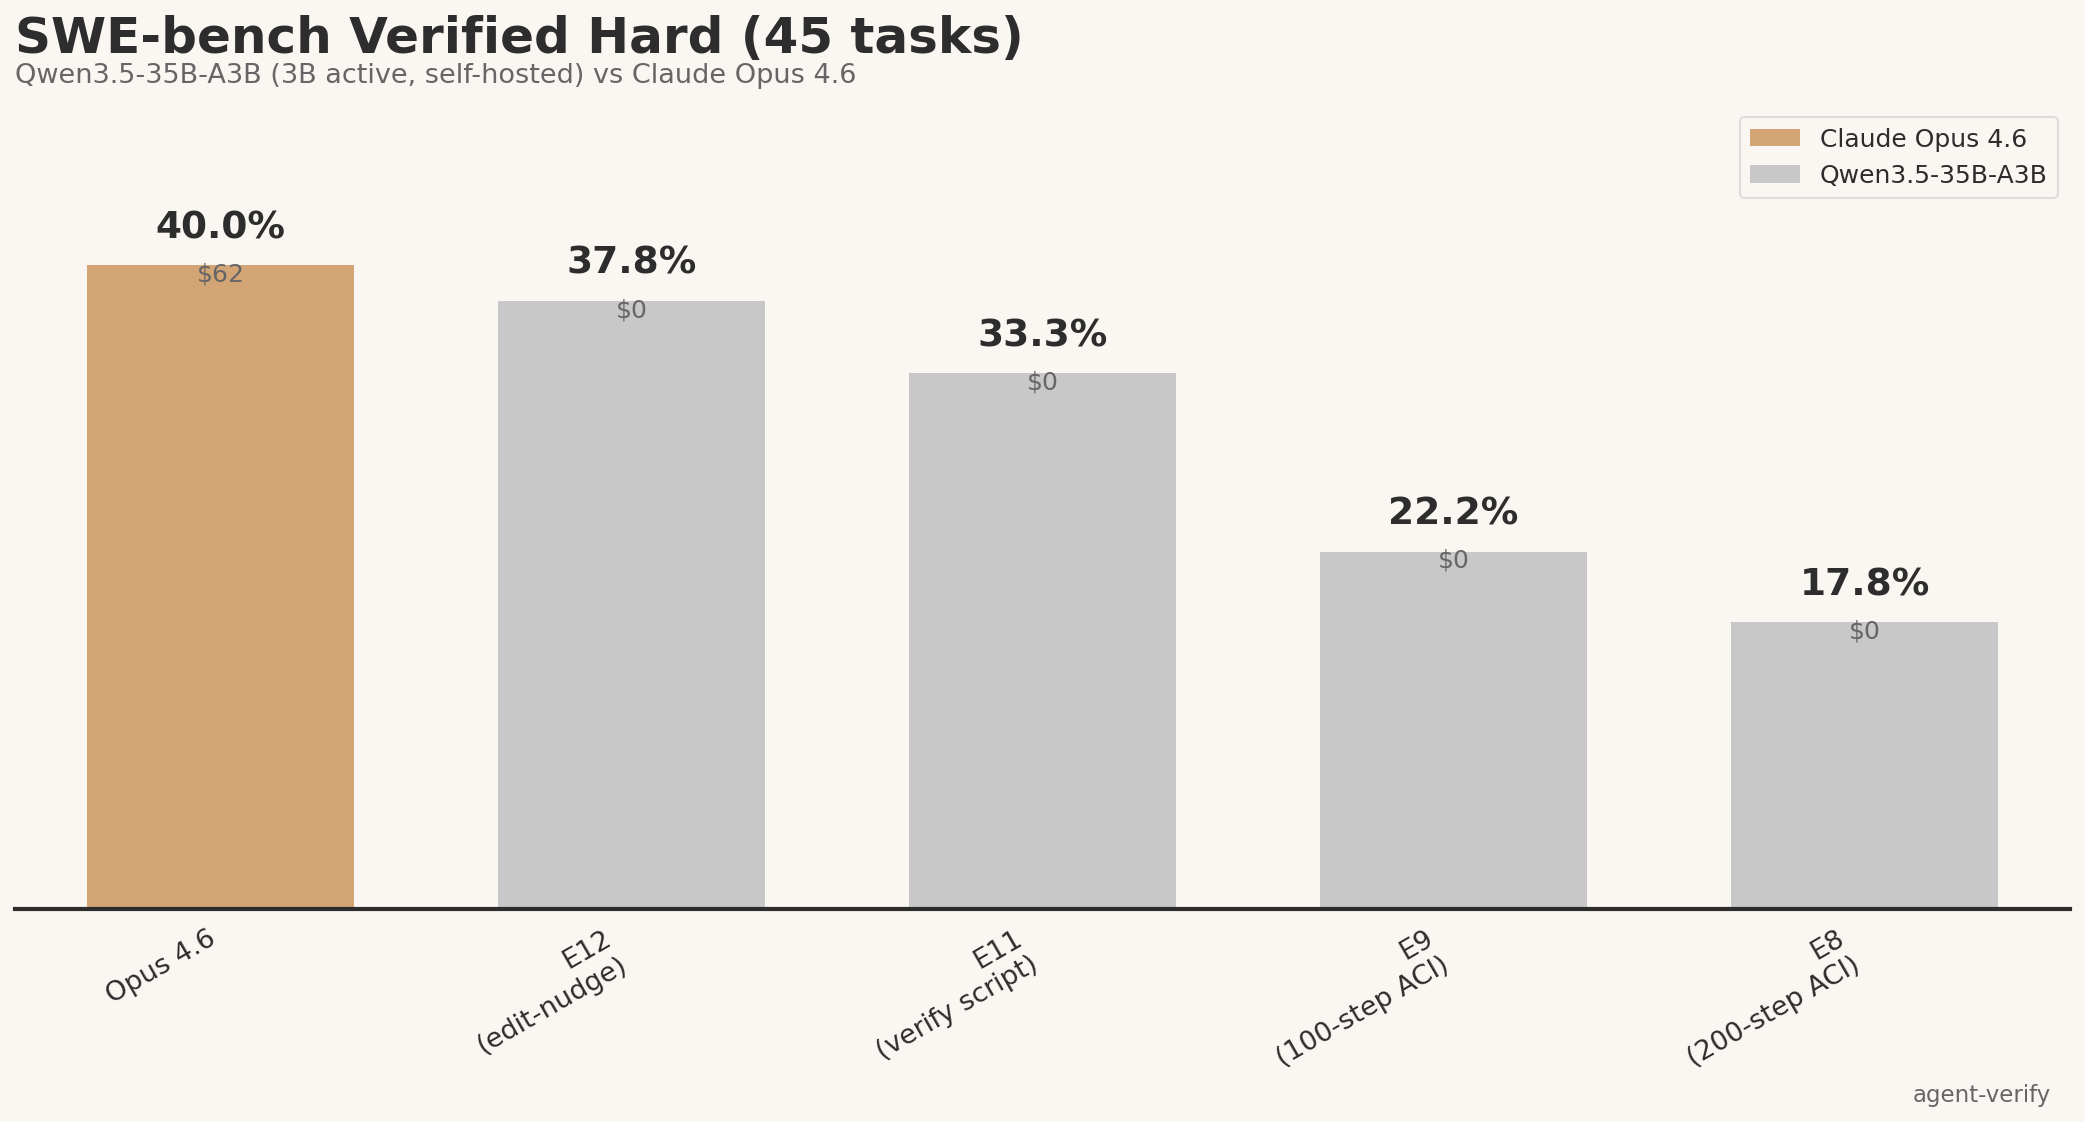
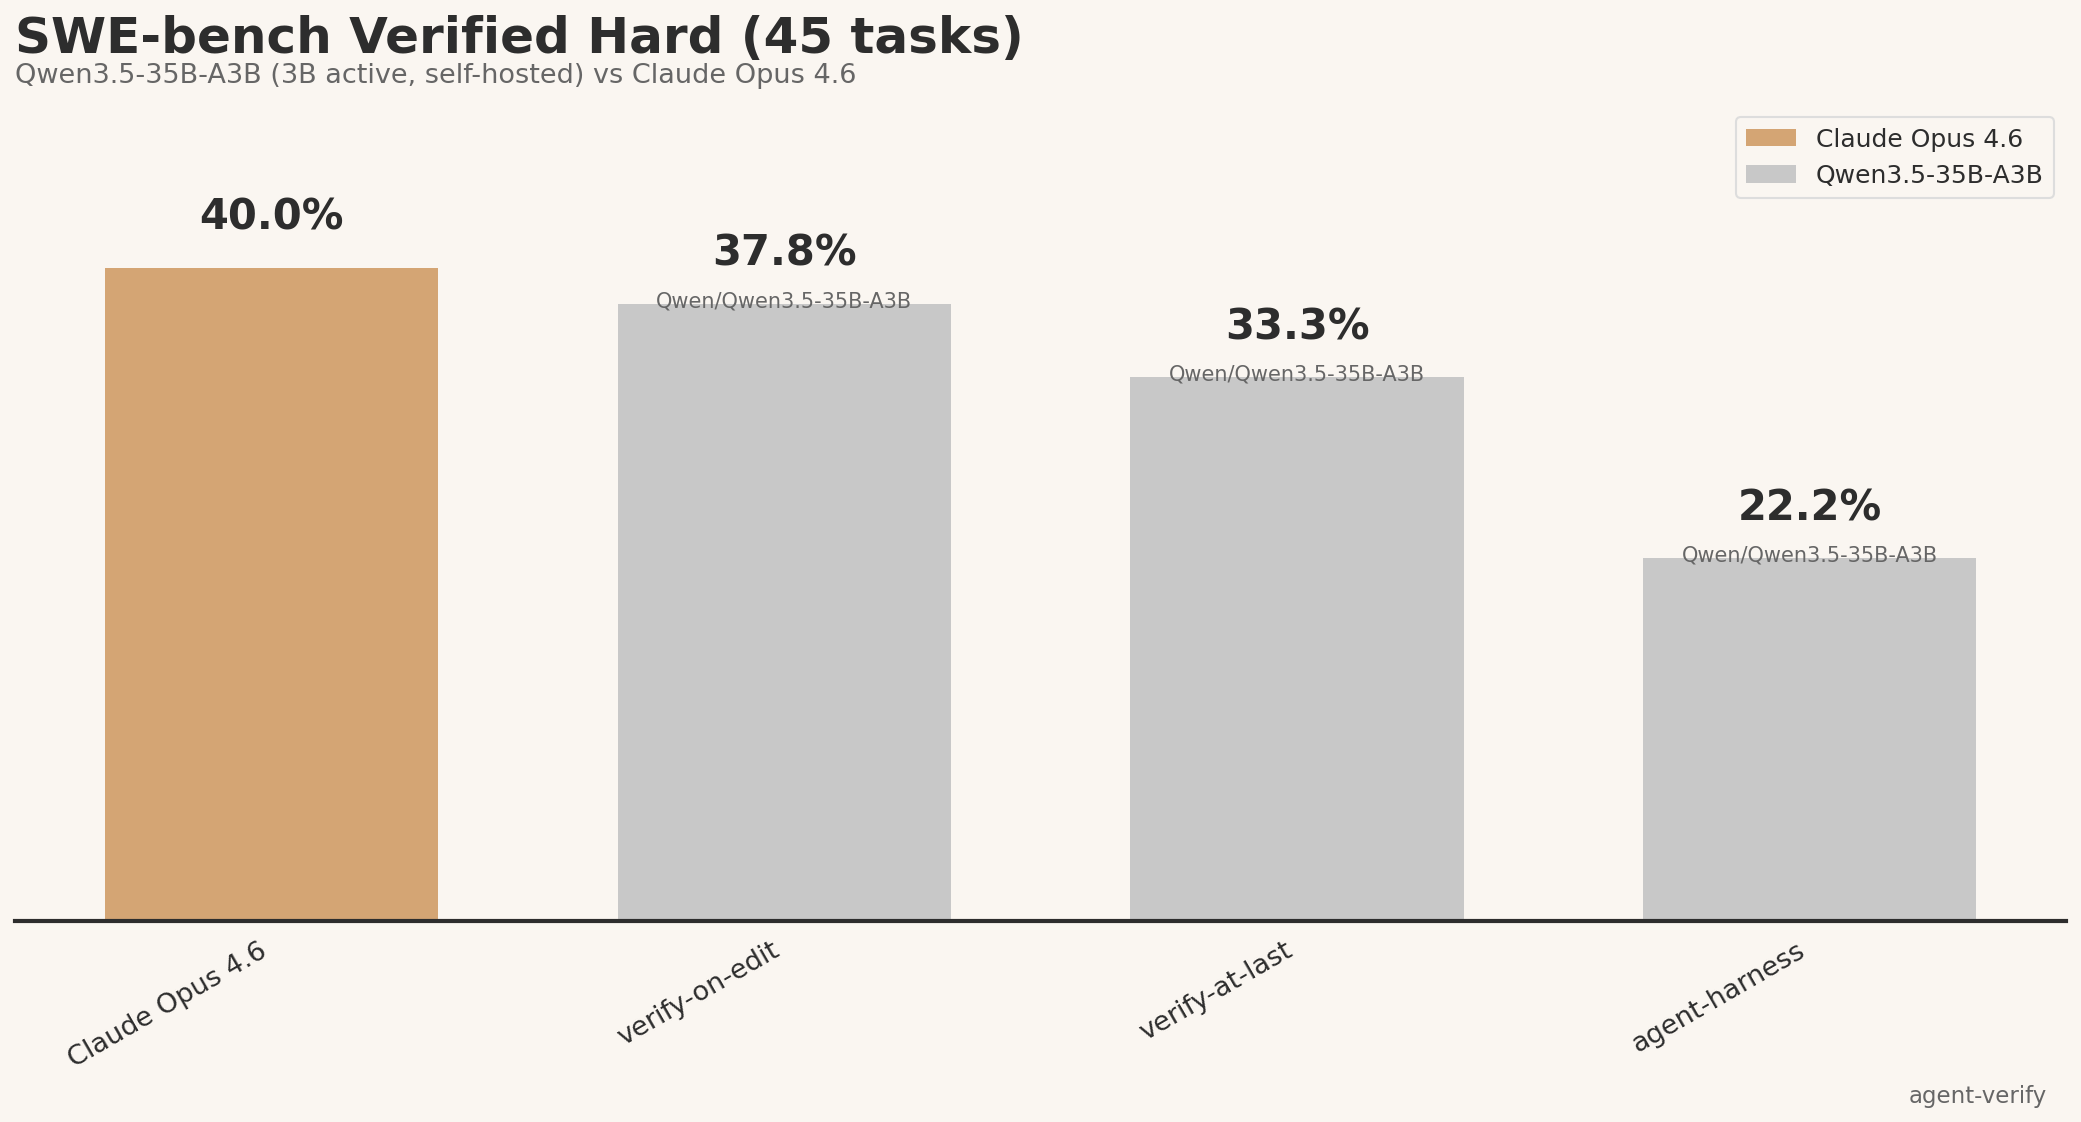
Update leaderboard chart: rename strategies, add model labels
verify-on-edit, verify-at-last, agent-harness naming.
Qwen/Qwen3.5-35B-A3B subtitle on Qwen bars. Remove cost labels.

diff --git a/figures/plot_hard_leaderboard.py b/figures/plot_hard_leaderboard.py
@@ -7,11 +7,10 @@ import numpy as np
 # Data (sorted by resolve rate descending)
 # ---------------------------------------------------------------------------
 entries = [
-    {"name": "Opus 4.6",                "pct": 40.0, "cost": "$62",    "type": "opus"},
-    {"name": "E12\n(edit-nudge)",        "pct": 37.8, "cost": "$0",     "type": "qwen"},
-    {"name": "E11\n(verify script)",     "pct": 33.3, "cost": "$0",     "type": "qwen"},
-    {"name": "E9\n(100-step ACI)",       "pct": 22.2, "cost": "$0",     "type": "qwen"},
-    {"name": "E8\n(200-step ACI)",       "pct": 17.8, "cost": "$0",     "type": "qwen"},
+    {"name": "Claude Opus 4.6",                              "pct": 40.0, "sub": "",                          "type": "opus"},
+    {"name": "verify-on-edit",                               "pct": 37.8, "sub": "Qwen/Qwen3.5-35B-A3B",     "type": "qwen"},
+    {"name": "verify-at-last",                               "pct": 33.3, "sub": "Qwen/Qwen3.5-35B-A3B",     "type": "qwen"},
+    {"name": "agent-harness",                                "pct": 22.2, "sub": "Qwen/Qwen3.5-35B-A3B",     "type": "qwen"},
 ]
 
 # ---------------------------------------------------------------------------
@@ -43,19 +42,20 @@ colors = [get_color(e) for e in entries]
 bars = ax.bar(x, [e["pct"] for e in entries], width=bar_width,
               color=colors, edgecolor=BAR_EDGE, linewidth=0, zorder=2)
 
-# Percentage + cost labels above bars
+# Percentage + subtitle labels above bars
 for i, (bar, entry) in enumerate(zip(bars, entries)):
     y_top = bar.get_height()
     # Percentage (big, bold)
-    ax.text(bar.get_x() + bar.get_width() / 2, y_top + 1.2,
+    ax.text(bar.get_x() + bar.get_width() / 2, y_top + 1.8,
             f"{entry['pct']:.1f}%",
-            ha="center", va="bottom", fontsize=18, fontweight="bold",
+            ha="center", va="bottom", fontsize=20, fontweight="bold",
             color=TEXT_DARK, fontfamily="sans-serif")
-    # Cost (smaller, below percentage)
-    ax.text(bar.get_x() + bar.get_width() / 2, y_top + 0.2,
-            entry["cost"],
-            ha="center", va="top", fontsize=12,
-            color=TEXT_MID, fontfamily="sans-serif")
+    # Model subtitle (smaller, below percentage)
+    if entry["sub"]:
+        ax.text(bar.get_x() + bar.get_width() / 2, y_top + 0.8,
+                entry["sub"],
+                ha="center", va="top", fontsize=10,
+                color=TEXT_MID, fontfamily="sans-serif")
 
 # X-axis labels (rotated like reference)
 ax.set_xticks(x)
